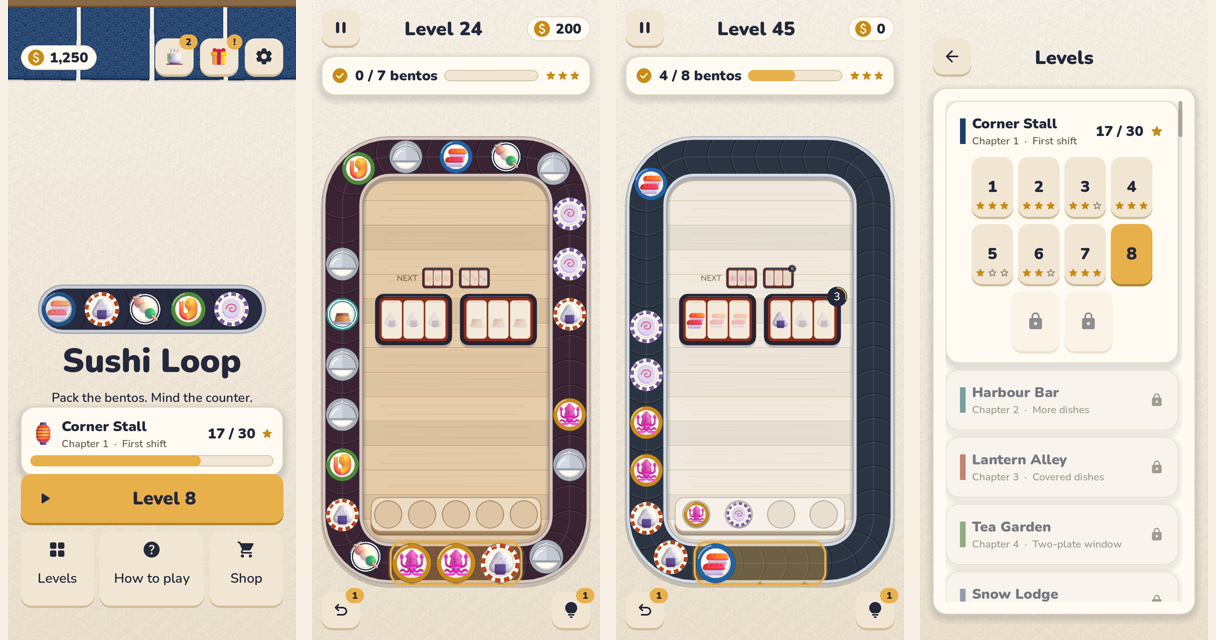
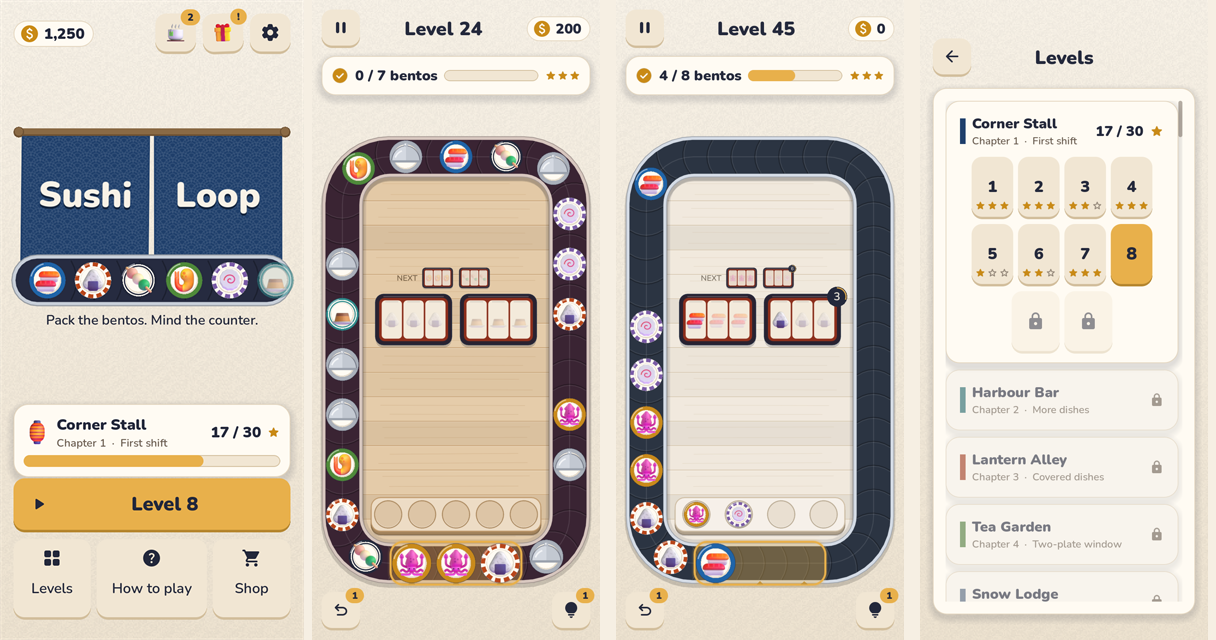
Home as a shop front: the noren carries the name, the belt runs in front of its hem
The curtain used to hang behind the top bar, cut short at the buttons with uneven slits behind
them, and left a band of empty screen above the logo. Now the top bar sits on the plain
background and the restaurant's noren hangs in the free space with one word of the name on each
panel; the belt glides in front of its hem. The shop front grows with the screen (300-420 px)
and sits centred, so the tagline no longer touches the restaurant card. Version 0.5.1 (7).

Changed region(s): [[0.0, 0.1875, 0.25, 0.9688], [0.0, 0.0, 0.25, 0.125]]

diff --git a/docs/UI_KIT.md b/docs/UI_KIT.md
@@ -9,7 +9,7 @@ phone shape, foldables and tablets (portrait).
 | | File | What it does |
 |---|---|---|
 | Splash | `ui/screens/splash.tscn` | The app icon's plate and the game's name for 0.6 s after Android's launch screen (tap to skip). A player who has not won a level yet goes straight into level 1; everyone else goes home |
-| Home | `ui/screens/main_menu.tscn` | The game's mark (`SushiLogo`) and name under the current restaurant's noren curtain (`SushiNoren`). A card for the restaurant (name, twist, stars, levels won); a tap opens its levels. One big Play button, "Level N" ("Level N · Hard" or "· Super hard" on those levels), in the thumb zone, then a row of three: Levels, How to play, Shop. Top bar: coins, the daily streak (a tea picture whose badge shows the days in a row; a tap explains it), the chef's gift (its badge counts the stars toward the next gift, "!" when one waits), settings. Back asks before quitting |
+| Home | `ui/screens/main_menu.tscn` | The current restaurant's shop front: its noren curtain (`SushiNoren`) with one word of the game's name on each panel, and the belt (`SushiLogo`) gliding in front of the hem; it grows with the screen (300-420 px) and sits centred in the free space. The top bar sits on the plain background. A card for the restaurant (name, twist, stars, levels won); a tap opens its levels. One big Play button, "Level N" ("Level N · Hard" or "· Super hard" on those levels), in the thumb zone, then a row of three: Levels, How to play, Shop. Top bar: coins, the daily streak (a tea picture whose badge shows the days in a row; a tap explains it), the chef's gift (its badge counts the stars toward the next gift, "!" when one waits), settings. Back asks before quitting |
 | Levels | `ui/screens/levels.tscn` | Every chapter as a row (restaurant colour, name, twist, stars, or a lock). One row is open at a time and shows its ten levels as `LevelTile`s: won ones with their stars, the next one in the accent colour, later ones locked; a won level replays on a tap. It opens the next level's chapter, or the one in `levels.gd`'s static `open_chapter` (home's restaurant card sets it). Back goes home |
 | How to play | `ui/screens/how_to_play.tscn` | Illustrated cards (`SushiIllustration`, drawn with the game's own art): taking a plate, packing bentos, the counter, planning the order, covered dishes, rush orders, the chef's special (each marked "Arrives in chapter N" until the player gets there), stars and boosters. "Play the guided level" replays level 1. Back goes home |
 | Game | `ui/screens/game.tscn` | One Sushi Loop level (`SushiBoard`) and its HUD: pause, level, coins, bentos packed and the stars on course; Undo and Hint in the bottom corners, their badges counting free and owned uses together; the doom card once the level can no longer be won (Step back costs an undo, Retry, Keep going). Rules, covered dishes, rush orders and the chef's special in [SUSHI_LOOP.md](SUSHI_LOOP.md) |

diff --git a/docs/SUSHI_LOOP.md b/docs/SUSHI_LOOP.md
@@ -283,11 +283,12 @@ Each chapter is a restaurant with its own belt, rail, wood and noren colours (`S
 
 - **First launch:** a player who has not won a level goes from the splash straight into level 1
   (guided); no menu first. Every later launch opens home.
-- **Home:** the game's mark and name under the current restaurant's noren curtain; the
-  restaurant as a card (name, twist, stars, levels won; a tap opens its levels); one big Play
-  button for the next level ("Level 15 · Hard" when it is one); then **Levels**, **How to play**
-  and **Shop**. The top bar holds coins, the daily streak, the chef's gift and Settings. Win →
-  Next goes straight into the next level, never through home.
+- **Home:** the current restaurant's shop front (its noren curtain with the game's name on it,
+  the belt gliding in front of the hem); the restaurant as a card (name, twist, stars, levels
+  won; a tap opens its levels); one big Play button for the next level ("Level 15 · Hard" when
+  it is one); then **Levels**, **How to play** and **Shop**. The top bar holds coins, the daily
+  streak, the chef's gift and Settings. Win → Next goes straight into the next level, never
+  through home.
 - **Levels:** every chapter as a row (restaurant colour, name, twist, stars, or a lock); one row
   open at a time shows its ten levels as tiles with their stars (the next one highlighted);
   a won level replays on a tap.

diff --git a/docs/CUSTOMIZING.md b/docs/CUSTOMIZING.md
@@ -6,7 +6,7 @@ What to change for every game, what you can change if the game needs it, and wha
 
 | What | Where | Notes |
 |---|---|---|
-| Game name | `project.godot` > `config/name` | Shown on the splash and on home (under the restaurant's noren curtain) |
+| Game name | `project.godot` > `config/name` | Shown on the splash and on home (one word per panel of the restaurant's noren curtain) |
 | Style | Project Settings > GUI > Theme > Custom | This game's is `sushi` (`core/ui/themes/sushi.tres`, the only style). A new one is made in `core/ui/styles/` and built by `tools/build_theme.gd` ([UI_KIT.md](UI_KIT.md)) |
 | Package name | `export_presets.cfg` > `package/unique_name` (both presets) | For example `com.yourstudio.halves`. Never ship `com.changeme.template`; it can never change after the first upload |
 | App name on the phone | `export_presets.cfg` > `package/name` | |

diff --git a/README.md b/README.md
@@ -69,9 +69,10 @@ real video or full-screen ad would play). They are not the Play Store build.
 
 ## Status
 
-Version 0.5.0: three new mechanics (covered dishes, rush orders, the chef's special), 1000
+Version 0.5.1: three new mechanics (covered dishes, rush orders, the chef's special), 1000
 levels rebuilt so none can be won by tapping one spot, losing that counts (step back costs an
-undo), a classic home with Levels, How to play and a coin shop, and a daily streak. Before Google
+undo), a classic home (the restaurant's shop front, Levels, How to play and a coin shop), and a
+daily streak. Before Google
 Play: real ads (AdMob account and plugin), a privacy policy page, a phone feel test, the final
 name, store page and release signing.
 
